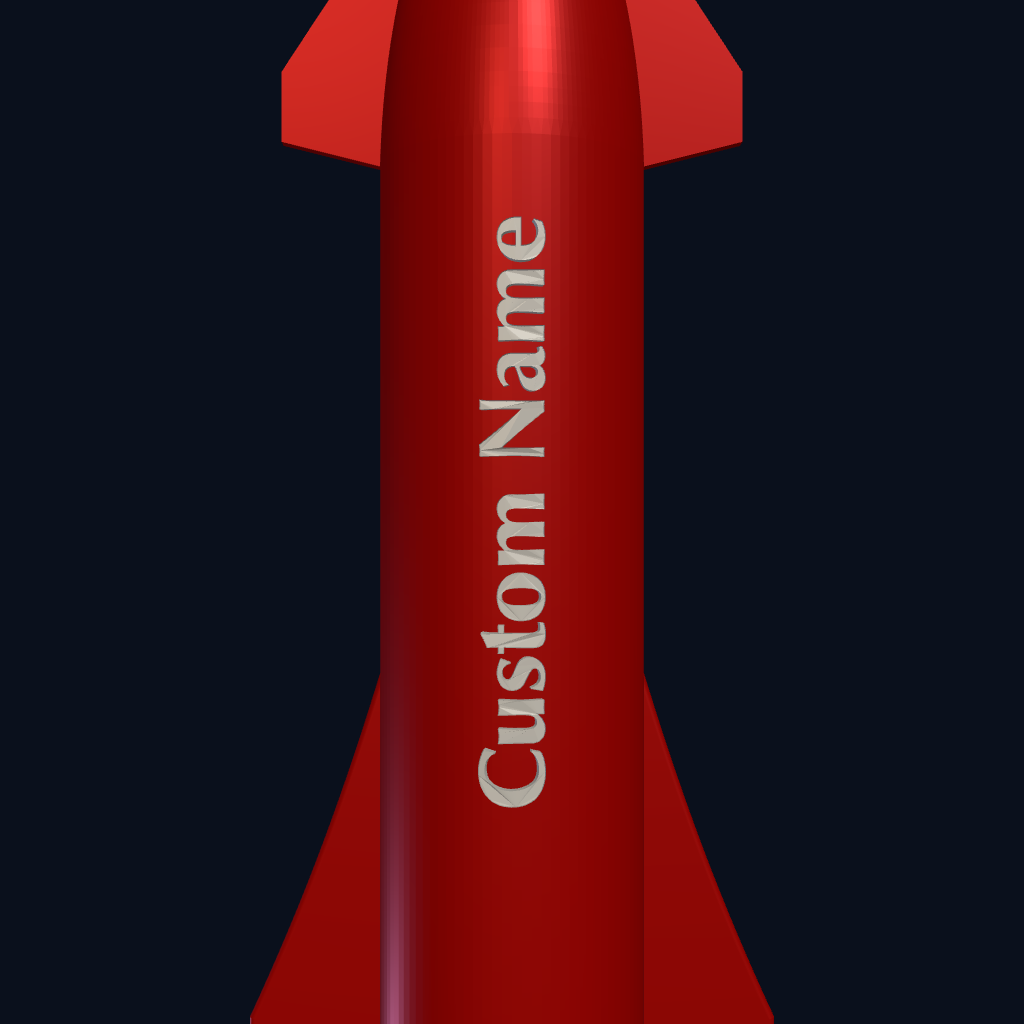
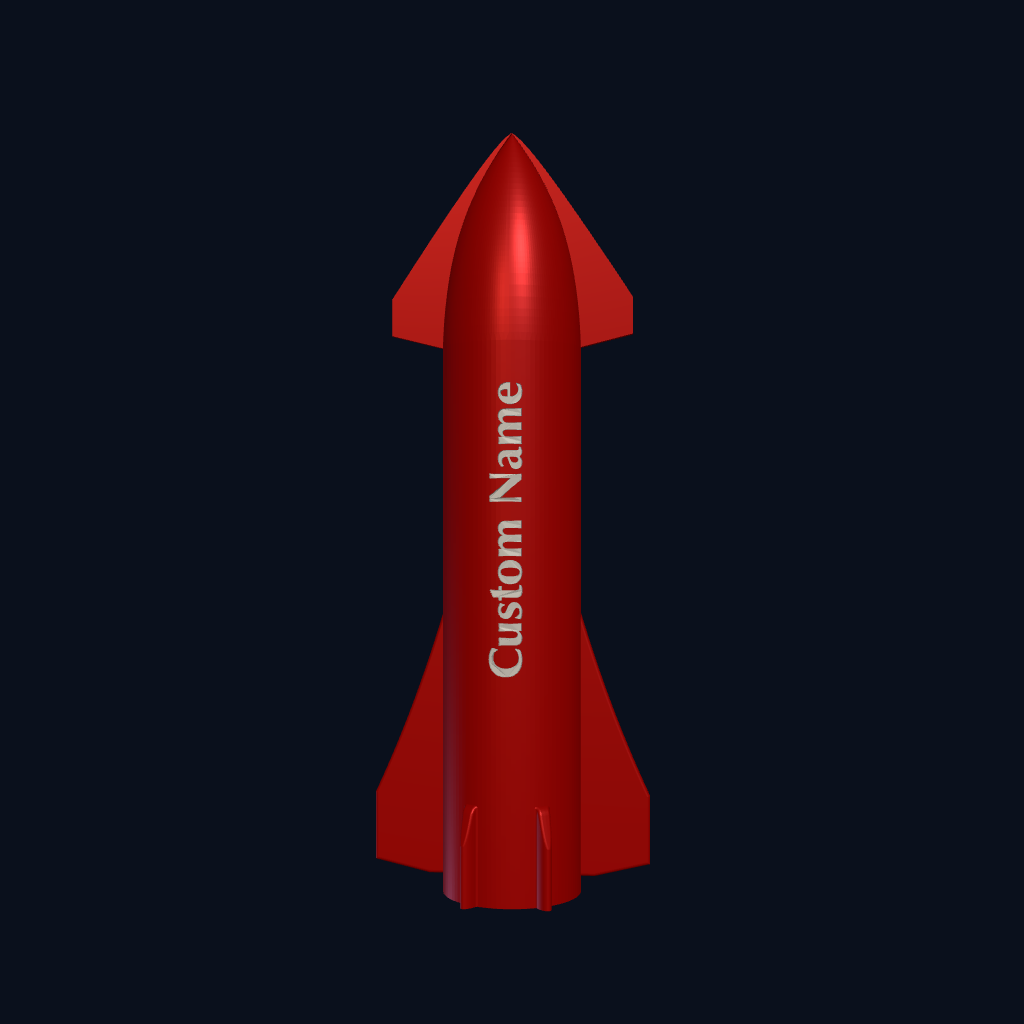
Frame the full starship in Printables covers (v1.1.3).
Zoom out to the model bounds so nose, lettering, and flaps all fit the square gallery image.

Changed region(s): [[0.25, 0.0, 0.75, 1.0]]

diff --git a/app.js b/app.js
@@ -729,9 +729,9 @@ function frameCamera() {
 }
 
 /**
- * Face-on framing for a square Printables cover — ship centered in frame.
- * Aims at the hull axis (not the text AABB). Skips OrbitControls.update()
- * so spherical recomputation cannot pull the subject off-center.
+ * Full-ship framing for a square Printables cover.
+ * Fits the entire model (nose → fins) in frame, viewed from the lettered side.
+ * Skips OrbitControls.update() so spherical recomputation cannot skew framing.
  * Assumes camera.aspect is already 1 (set by captureCoverDataUrl).
  */
 function frameCoverCamera() {
@@ -739,20 +739,25 @@ function frameCoverCamera() {
     frameCamera();
     return;
   }
-  const textY = Number(el.pos.value);
-  const zDir = selectedSide() === "right" ? 1 : -1;
-  const span = Math.max(lastSpanMm, Number(el.size.value) * 4, 28);
-  // Vertical fit: letter span + hull margin so fins/context show without clipping.
-  const fitH = span + 36;
-  const fov = THREE.MathUtils.degToRad(camera.fov);
-  const dist = (fitH / 2) / Math.tan(fov / 2) * 1.05;
+  modelGroup.updateMatrixWorld(true);
+  const box = new THREE.Box3().setFromObject(modelGroup);
+  const size = box.getSize(new THREE.Vector3());
+  const center = box.getCenter(new THREE.Vector3());
+  // Prefer hull axis X so the cylinder sits dead-center horizontally.
+  center.x = BODY_CENTER_X * modelGroup.scale.x;
 
-  const target = new THREE.Vector3(BODY_CENTER_X, textY, 0);
-  camera.position.set(BODY_CENTER_X, textY, zDir * dist);
+  // Extra margin so nose + flaps read clearly in the square (not edge-clipped).
+  const fit = Math.max(size.x, size.y, size.z) * 1.35;
+  const fov = THREE.MathUtils.degToRad(camera.fov);
+  const dist = fit / 2 / Math.tan(fov / 2);
+  const zDir = selectedSide() === "right" ? 1 : -1;
+
+  // Slight X bias for a 3/4 read without losing horizontal centering much.
+  camera.position.set(center.x + fit * 0.12, center.y, center.z + zDir * dist);
   camera.up.set(0, 1, 0);
-  camera.lookAt(target);
+  camera.lookAt(center);
   camera.updateMatrixWorld();
-  controls.target.copy(target);
+  controls.target.copy(center);
 }
 
 function normalizeHex(value) {

diff --git a/index.html b/index.html
@@ -8,7 +8,7 @@
       name="description"
       content="Customize the name on a printable Starship remix, preview a color, and download STL, 3MF, or a PNG cover."
     />
-    <link rel="stylesheet" href="styles.css?v=1.1.2" />
+    <link rel="stylesheet" href="styles.css?v=1.1.3" />
   </head>
   <body>
     <div id="app">
@@ -16,7 +16,7 @@
         <header class="brand">
           <p class="eyebrow">
             Printables remix tool
-            <span class="version" id="app-version" aria-label="App version">v1.1.2</span>
+            <span class="version" id="app-version" aria-label="App version">v1.1.3</span>
           </p>
           <h1>Starship Custom Name</h1>
           <p class="lede">
@@ -168,7 +168,7 @@
               rel="noopener"
               >source</a
             >
-            · <span id="footer-version">v1.1.2</span>)
+            · <span id="footer-version">v1.1.3</span>)
           </p>
           <p>
             Remix of
@@ -204,6 +204,6 @@
         }
       }
     </script>
-    <script type="module" src="app.js?v=1.1.2"></script>
+    <script type="module" src="app.js?v=1.1.3"></script>
   </body>
 </html>

diff --git a/version.js b/version.js
@@ -1,6 +1,6 @@
 /** App version & author — bump when shipping user-facing changes. */
 export const APP_NAME = "Starship Custom Name";
-export const APP_VERSION = "1.1.2";
+export const APP_VERSION = "1.1.3";
 
 export const AUTHOR = {
   name: "David Leeds",

diff --git a/README.md b/README.md
@@ -1,6 +1,6 @@
 # Starship Custom Name
 
-**v1.1.2** · by [David Leeds](https://github.com/leedsexplore) ([@leedsexplore](https://github.com/leedsexplore))
+**v1.1.3** · by [David Leeds](https://github.com/leedsexplore) ([@leedsexplore](https://github.com/leedsexplore))
 
 Simple customizer for a Printables remix of [Josh1297’s SpaceX Starship](https://www.printables.com/model/225040-spacex-starship).
 
